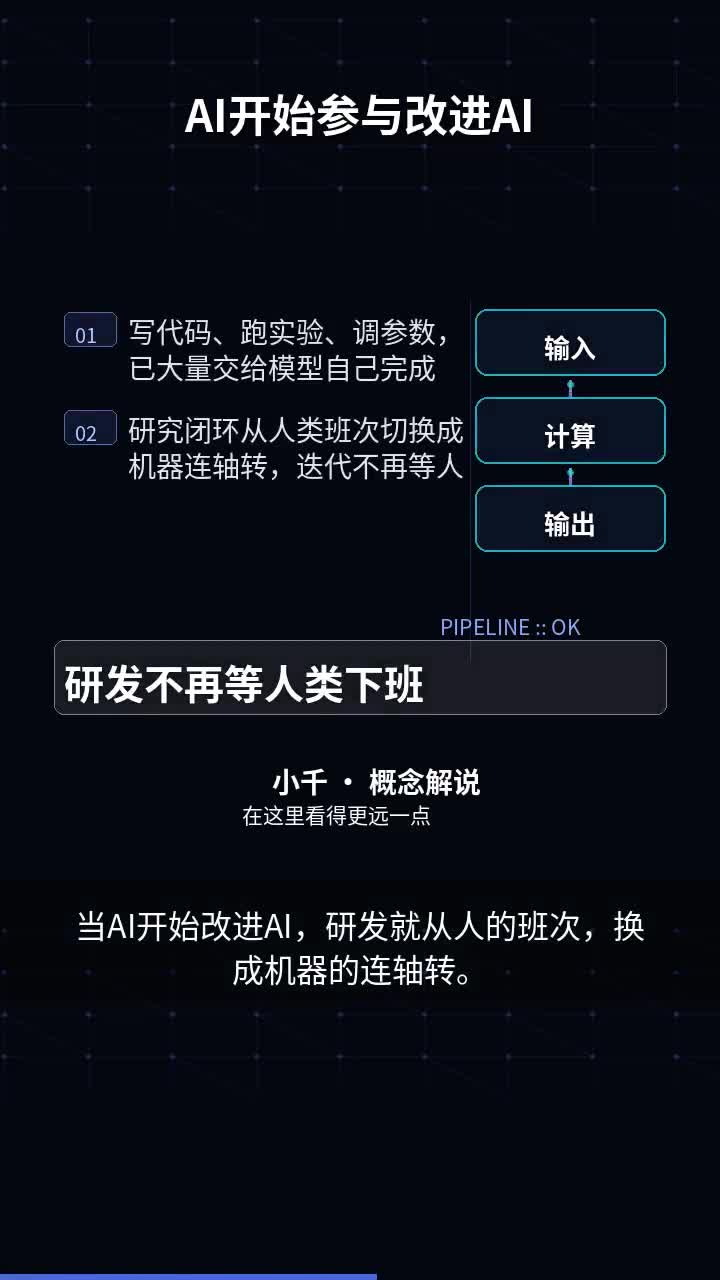
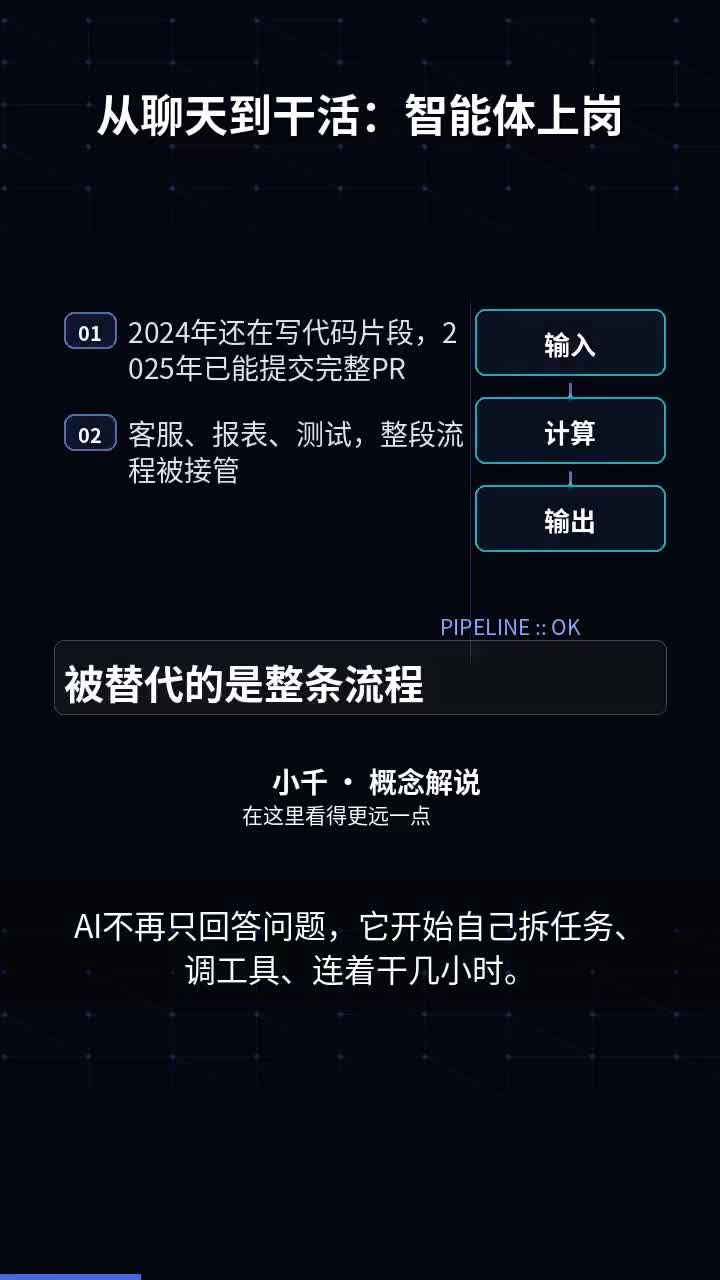
Fit text inside boxes with uniform padding
This is by an automated agent, not a human.

label_box shrinks type until it fits, keeps 16px padding and centers
optically; applied to badges, flow boxes and token chips.

diff --git a/projects/motion-mvp/graph_scene.py b/projects/motion-mvp/graph_scene.py
@@ -89,6 +89,33 @@ def wrap_text(text, size, max_width, bold=False):
     return lines
 
 
+
+
+def fit_font(text, max_w, max_h, start=28, pad=16, bold=True):
+    """Shrink until the text fits the box with a consistent padding."""
+    size = start
+    while size > 12:
+        f = font(FONT_BOLD if bold else FONT_REG, size)
+        if f.getlength(text) <= max_w - 2 * pad and size <= max_h - 2 * pad:
+            return f, size
+        size -= 1
+    return font(FONT_BOLD if bold else FONT_REG, 12), 12
+
+
+def label_box(draw, x, y, text, w, h, outline, fill=None, pad=16, start=30, text_color=(255, 255, 255)):
+    """Box with text fitted and optically centered; identical padding everywhere."""
+    f, size = fit_font(text, w, h, start=start, pad=pad)
+    if fill:
+        draw.rounded_rectangle([x, y, x + w, y + h], radius=10, fill=fill,
+                               outline=outline, width=2)
+    else:
+        draw.rounded_rectangle([x, y, x + w, y + h], radius=10, outline=outline, width=2)
+    tw = f.getlength(text)
+    asc, desc = f.getmetrics()
+    th = asc + desc
+    draw.text((x + (w - tw) / 2, y + (h - th) / 2 + 2), text, font=f, fill=text_color)
+
+
 def draw_brain(draw, cx, cy, scale, alpha):
     a = int(210 * alpha)
     r = scale * 0.42
@@ -198,13 +225,9 @@ def draw_tokens(draw, cx, cy, scale, alpha, t):
             continue
         x = start_x + index * (chip_w + gap)
         y = cy + 10 + (1 - appear) * 18
-        draw.rounded_rectangle([x, y, x + chip_w, y + chip_h], radius=10,
-                               fill=ACCENT + (int(40 * appear),),
-                               outline=ACCENT2 + (int(210 * appear),), width=2)
-        f = font(FONT_BOLD, 26)
-        label = str(index + 1)
-        draw.text((x + (chip_w - f.getlength(label)) / 2, y + 16), label,
-                  font=f, fill=(255, 255, 255, int(220 * appear)))
+        label_box(draw, x, y, str(index + 1), chip_w, chip_h,
+                  outline=ACCENT2 + (int(210 * appear),),
+                  fill=ACCENT + (int(40 * appear),), start=26)
         if index < chips - 1:
             ax = x + chip_w + 2
             draw.line([(ax, y + chip_h / 2), (ax + gap - 4, y + chip_h / 2)],
@@ -364,12 +387,9 @@ def draw_flow_compact(draw, cx, cy, alpha, t):
     top = cy - (box_h * 3 + gap * 2) / 2
     for index, text in enumerate(labels):
         y = top + index * (box_h + gap)
-        draw.rounded_rectangle([cx - box_w / 2, y, cx + box_w / 2, y + box_h], radius=12,
-                               fill=(13, 20, 38, int(235 * alpha)),
-                               outline=ACCENT2 + (int(220 * alpha),), width=2)
-        f = font(FONT_BOLD, 26)
-        draw.text((cx - f.getlength(text) / 2, y + 18), text, font=f,
-                  fill=(255, 255, 255, int(225 * alpha)))
+        label_box(draw, cx - box_w / 2, y, text, box_w, box_h,
+                  outline=ACCENT2 + (int(220 * alpha),),
+                  fill=(13, 20, 38, int(235 * alpha)), start=26)
         if index < 2:
             ax = cx
             ay0 = y + box_h + 2
@@ -415,17 +435,14 @@ def render_insight(out, title, items, highlight, subtitle, seconds, figure='brai
             appear = ease((t - 0.5 - item_index * 0.5) / 0.5)
             if appear <= 0:
                 continue
-            draw.rounded_rectangle([MARGIN, y + 2, MARGIN + 52, y + 36], radius=6,
-                                   fill=(80, 120, 255, int(36 * appear)),
-                                   outline=(120, 160, 255, int(170 * appear)))
-            nf = font(FONT_REG, 20)
-            draw.text((MARGIN + 11, y + 9), f'{item_index + 1:02d}', font=nf,
-                      fill=(180, 200, 255, int(215 * appear)))
-            lines = wrap_text(item, 28, 340)
+            label_box(draw, MARGIN, y + 2, f'{item_index + 1:02d}', 52, 36,
+                      outline=(120, 160, 255, int(170 * appear)),
+                      fill=(80, 120, 255, int(36 * appear)), start=22, pad=8)
+            lines = wrap_text(item, 28, 336)
             for line_index, line in enumerate(lines[:3]):
                 draw.text((MARGIN + 64, y + line_index * 36), line, font=item_font,
                           fill=(226, 232, 240, int(215 * appear)))
-            y += 36 * min(3, len(lines)) + 26
+            y += 36 * min(3, len(lines)) + 30
         # figure column, breathing alpha
         fig_alpha = ease((t - 0.3) / 0.7) * breathe
         drawer = FIGURES.get(figure, draw_brain)
@@ -482,12 +499,9 @@ def draw_flow_compact(draw, cx, cy, alpha, t):
     top = cy - (box_h * 3 + gap * 2) / 2
     for index, text in enumerate(labels):
         y = top + index * (box_h + gap)
-        draw.rounded_rectangle([cx - box_w / 2, y, cx + box_w / 2, y + box_h], radius=12,
-                               fill=(13, 20, 38, int(235 * alpha)),
-                               outline=ACCENT2 + (int(220 * alpha),), width=2)
-        f = font(FONT_BOLD, 26)
-        draw.text((cx - f.getlength(text) / 2, y + 18), text, font=f,
-                  fill=(255, 255, 255, int(225 * alpha)))
+        label_box(draw, cx - box_w / 2, y, text, box_w, box_h,
+                  outline=ACCENT2 + (int(220 * alpha),),
+                  fill=(13, 20, 38, int(235 * alpha)), start=26)
         if index < 2:
             ax = cx
             ay0 = y + box_h + 2
